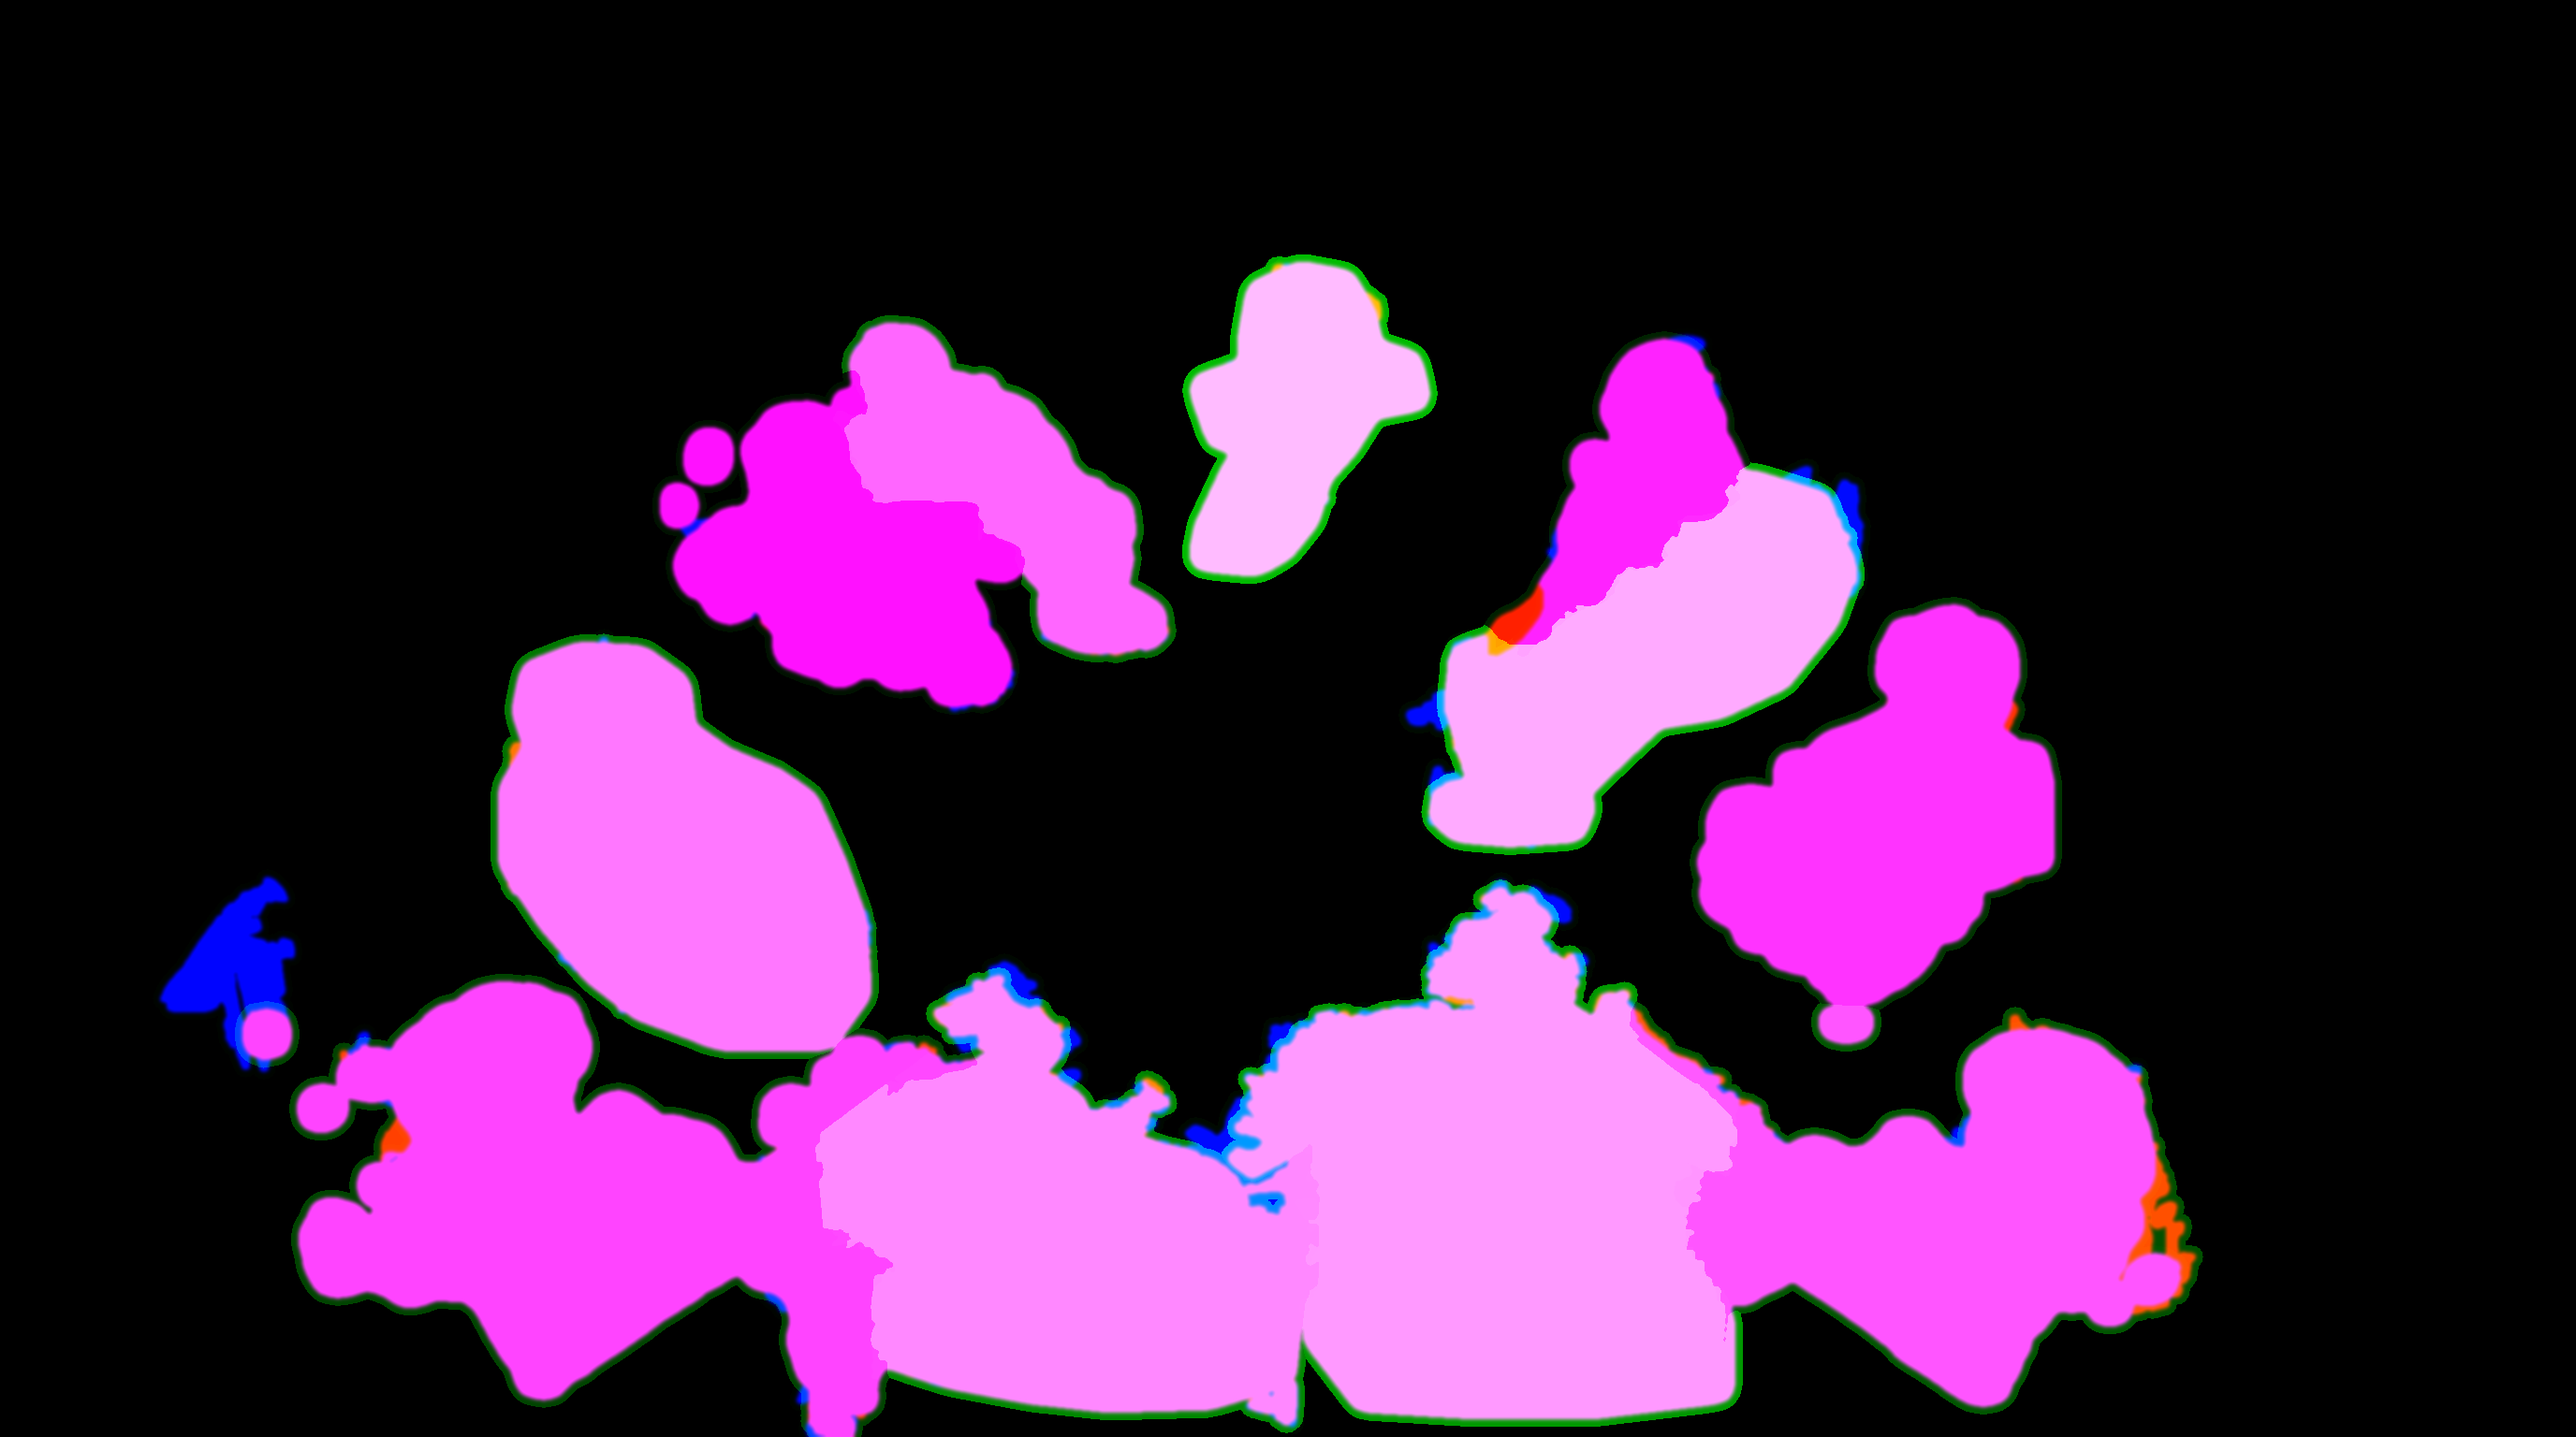
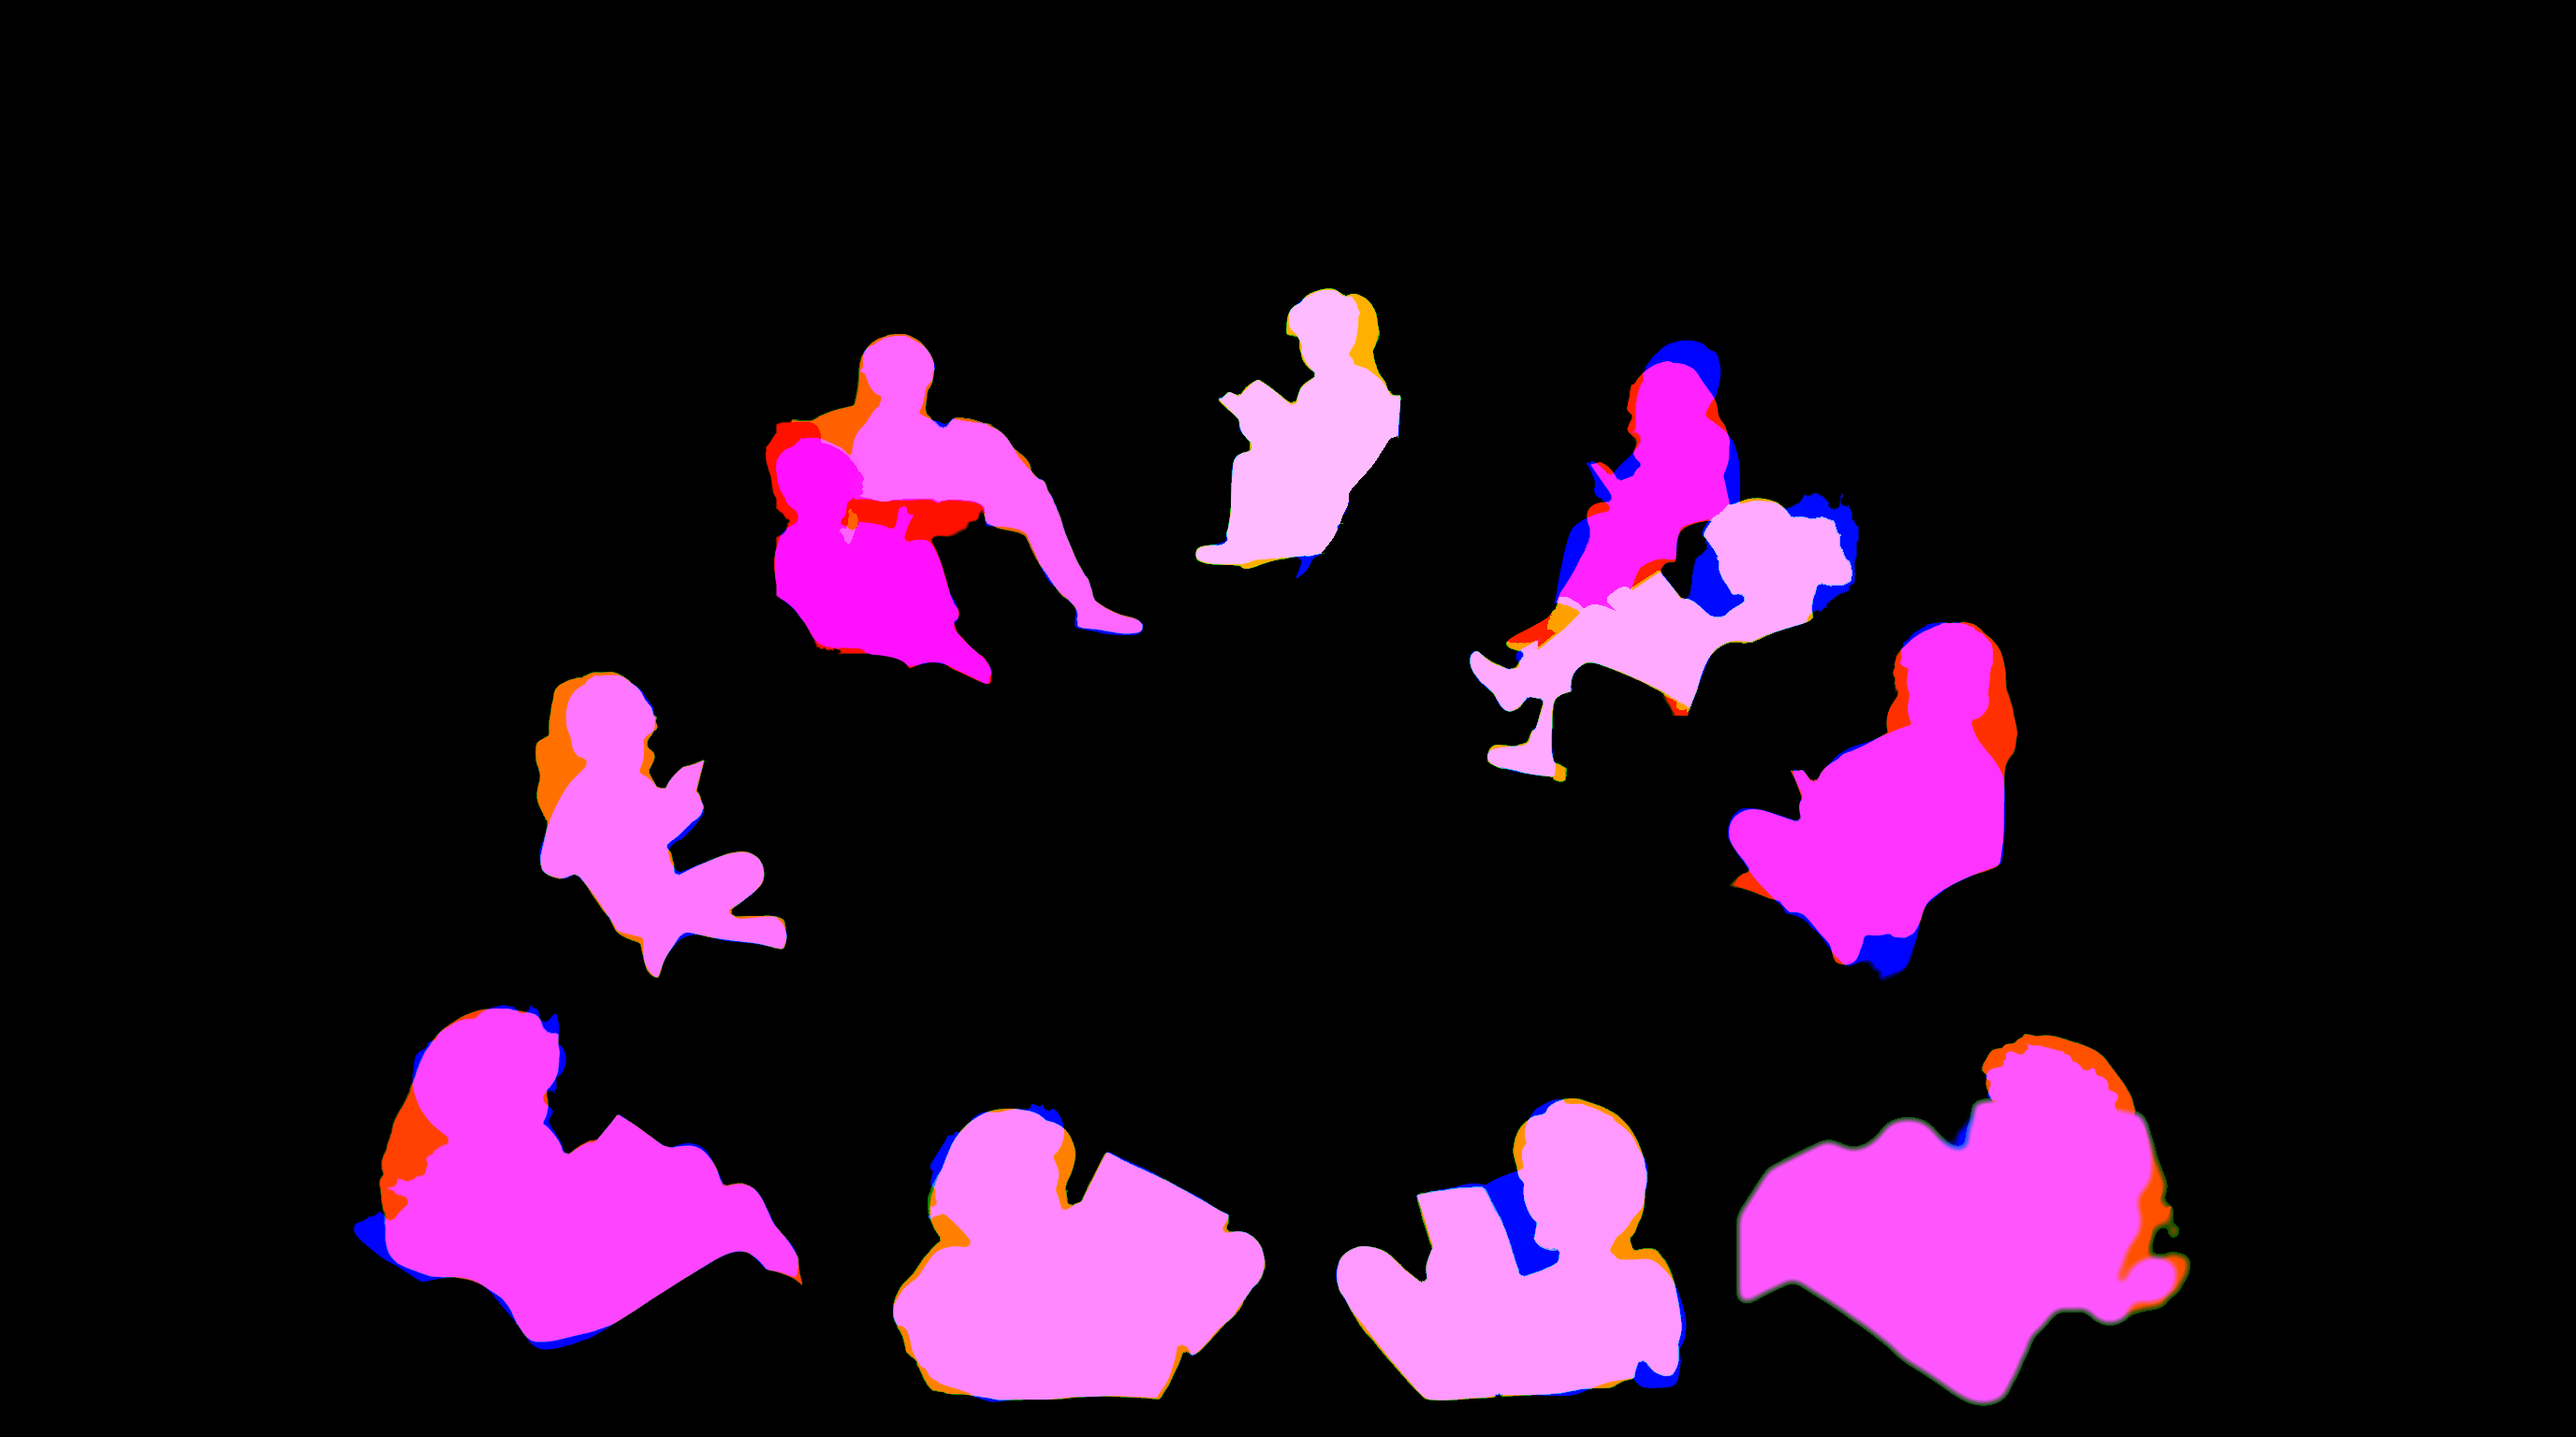
Reading room: every reader cut out as themselves, legs and all
The founder's screenshots of 2026-10-07: readers still had cut legs and a
ragged edge at an elbow, and the young man on the sofa, alone, had a bite out
of his side where the girl's head is in the render.

The masks held everything a cast render changed around a reader (the chair's
throw, the sheepskin, half a lamp arm), and who was who where two readers
touch came from the September render. Now each reader is the person only
(prototypes/reading-room/build_figures.py):
- the outline is a person segmentation (BiRefNet) of each render;
- who is who comes from SAM pointed at each reader and away from the
  neighbours; the line between two people follows the picture's edges and
  its pixels go to the one in front;
- parts the model missed (dark jeans on a dark armchair) come back where the
  old figure, the empty room and the other cast agree a person is there;
- reader 5's armchair, drawn differently in the empty frame, comes with her.
All 22 figures checked alone in every cast and time of day. CAST_BOX follows.

Changed region(s): [[0.0625, 0.1562, 0.875, 1.0], [0.75, 0.9688, 0.7812, 1.0]]

diff --git a/frontend/src/widgets/ReadingRoom/casts.js b/frontend/src/widgets/ReadingRoom/casts.js
@@ -2,10 +2,10 @@
    portrait):
    CAST_EYES: where each new face's eyes are, so the lids close over them, by time of day and cast (f, m), reader by
    reader, as engine.js keeps a rig's eyes;
-   CAST_BOX: each reader's box, grown to hold their figure in every render (build_casts.py), so none is cut;
+   CAST_BOX: each reader's box, grown to hold their figure in every render (build_figures.py), so none is cut;
    CAST_PAGES: page turns for the readers the old rig had none for (casts/pages.json), as engine.js PAGES, with
    mode 2 (an open book facing us) or 3 (a book seen from its cover: only the sheet's edge flicks past it).
    Written by prototypes/reading-room/casts_js.py; do not edit by hand. */
 export const CAST_EYES={"a":{"day":{"f":{"6":[[0.35102,0.2666,0.00277,-0.000495,0.001758,0.002279,0.000977,0]],"1":[[0.32068,0.34896,0.00303,-8.5e-05,0.002214,0.002344,0.0014,0],[0.3284,0.34873,0.00221,-0.000293,0.002376,0.002441,0.00112,0]],"2":[[0.64528,0.29219,0.00263,-0.000247,0.001432,0.002604,0.0011,0],[0.63854,0.2918,0.00155,8.5e-05,0.001562,0.001562,0.000879,0]],"3":[[0.75309,0.48724,0.0033,-0.000247,0.002148,0.00319,0.001198,0],[0.7432,0.48268,0.00233,0.000417,0.002344,0.002344,0.0011,0]],"7":[[0.23519,0.51989,0.00341,-0.000371,0.002507,0.003158,0.000801,0],[0.24613,0.51549,0.00168,-0.000254,0.001693,0.002214,0.000703,0]]},"m":{"6":[[0.35238,0.27266,0.00266,-0.000247,0.001432,0.001562,0.000977,0]],"1":[[0.32097,0.34876,0.00327,-0.000104,0.00319,0.004492,0.0014,0],[0.32812,0.34753,0.0021,-0.000254,0.002474,0.002995,0.00112,0]],"2":[[0.65162,0.27734,0.00208,-8.5e-05,0.001562,0.001758,0.0011,0],[0.64462,0.27572,0.00166,-0.000169,0.001497,0.001628,0.000879,0]],"3":[[0.75307,0.4903,0.00306,0.0,0.002018,0.00293,0.001198,0],[0.74302,0.48542,0.00202,-8.5e-05,0.002344,0.002604,0.0011,0]],"7":[[0.23868,0.52448,0.00359,-0.000247,0.002279,0.002409,0.000801,0],[0.24797,0.52031,0.00148,-8.5e-05,0.002018,0.002148,0.000703,0]]}},"night":{"f":{"6":[[0.35129,0.2668,0.00377,-0.000247,0.001562,0.002344,0.000977,0]],"1":[[0.32028,0.34971,0.00263,-0.000124,0.00166,0.003158,0.0014,0],[0.32812,0.3498,0.00233,-0.000332,0.002539,0.002669,0.00112,0]],"2":[[0.64515,0.29329,0.00235,-0.000169,0.001562,0.001823,0.0011,0],[0.63863,0.29219,0.00166,8.5e-05,0.001562,0.001693,0.000879,0]],"3":[[0.75365,0.48789,0.00306,-0.000247,0.002865,0.003255,0.001198,0],[0.74331,0.48138,0.00202,8.5e-05,0.002344,0.002539,0.0011,0]],"7":[[0.23556,0.52005,0.00355,-0.000247,0.002669,0.00319,0.000801,0],[0.24586,0.51589,0.00202,-0.000254,0.002018,0.002279,0.000703,0]]},"m":{"6":[[0.35247,0.27148,0.00388,-0.00041,0.002865,0.003255,0.000977,0]],"1":[[0.32013,0.34782,0.00237,-0.000625,0.002246,0.002181,0.0014,0],[0.32776,0.34629,0.0021,-0.000332,0.002279,0.002669,0.00112,0]],"2":[[0.65189,0.27728,0.0029,-0.000163,0.001823,0.002214,0.0011,0],[0.64462,0.27572,0.0021,-0.000169,0.001758,0.002148,0.000879,0]],"3":[[0.75363,0.49004,0.00335,0.000163,0.001953,0.002344,0.001198,0],[0.74284,0.48509,0.00197,0.0,0.002344,0.002865,0.0011,0]],"7":[[0.2389,0.52422,0.0035,-0.000247,0.002865,0.002669,0.000801,0],[0.24747,0.52083,0.0019,-8.5e-05,0.002604,0.00293,0.000703,0]]}}},"m":{"day":{"f":{"6":[[0.25749,0.37725,0.00377,-0.000142,0.000872,0.00109,0.000472,0]],"1":[[0.21029,0.42068,0.00496,-9.1e-05,0.000763,0.000981,0.000581,0]],"2":[[0.736,0.39117,0.00456,-9.1e-05,0.00069,0.000908,0.000472,0],[0.72217,0.39122,0.00437,0.000302,0.000309,0.001326,0.000378,0]],"3":[[0.80892,0.52206,0.00496,-9.1e-05,0.000836,0.001054,0.000556,0],[0.79658,0.51955,0.00277,0.000716,0.000509,0.000872,0.000512,0]],"7":[[0.08561,0.51137,0.00615,-9.1e-05,0.001199,0.001126,0.000392,0],[0.10384,0.50858,0.00377,-0.000233,0.000872,0.00109,0.000345,0]]},"m":{"6":[[0.25928,0.38121,0.00357,-0.000189,0.000981,0.001054,0.000472,0]],"1":[[0.21208,0.42271,0.00635,-0.000182,0.000836,0.000981,0.000581,0]],"2":[[0.74447,0.38521,0.00536,-9.1e-05,0.000981,0.001126,0.000472,0],[0.736,0.38532,0.00258,0.000912,0.000581,0.000945,0.000378,0]],"3":[[0.80859,0.52271,0.00576,0.0,0.000908,0.001126,0.000556,0],[0.796,0.52093,0.00286,0.000429,0.00069,0.000799,0.000512,0]],"7":[[0.0944,0.51392,0.00734,-9.1e-05,0.001199,0.001344,0.000392,0],[0.10758,0.51308,0.00277,-0.00024,0.000799,0.001163,0.000345,0]]}},"night":{"f":{"6":[[0.25667,0.37725,0.00437,-0.000138,0.000945,0.00109,0.000472,0]],"1":[[0.21338,0.42148,0.00476,-0.000185,0.00069,0.000981,0.000581,0]],"2":[[0.73861,0.39172,0.00576,-4.7e-05,0.000799,0.000872,0.000472,0],[0.72282,0.3919,0.00437,0.000465,0.000254,0.000908,0.000378,0]],"3":[[0.80957,0.52271,0.00655,0.000182,0.001126,0.001344,0.000556,0],[0.79655,0.51966,0.00298,0.000665,0.00069,0.000763,0.000512,0]],"7":[[0.09049,0.51283,0.00576,-0.000367,0.000763,0.001126,0.000392,0],[0.10612,0.50981,0.00337,-0.000425,0.000872,0.001017,0.000345,0]]},"m":{"6":[[0.25879,0.38105,0.00536,-0.00016,0.00089,0.001145,0.000472,0]],"1":[[0.21387,0.4206,0.00536,-0.000185,0.000836,0.000981,0.000581,0]],"2":[[0.74626,0.38423,0.00516,-0.000138,0.000945,0.00109,0.000472,0],[0.73568,0.38488,0.00258,0.000912,0.00109,0.000581,0.000378,0]],"3":[[0.81185,0.52373,0.00615,9.1e-05,0.001126,0.001126,0.000556,0],[0.79925,0.5224,0.00286,0.000309,0.0006,0.000854,0.000512,0]],"7":[[0.09326,0.51374,0.00794,-4.7e-05,0.001308,0.001453,0.000392,0],[0.10645,0.51305,0.00496,-0.000185,0.000908,0.001344,0.000345,0]]}}}};
-export const CAST_BOX={"a":{"1":[0.25,0.2493,0.403,0.4993],"2":[0.572,0.2292,0.693,0.483],"3":[0.653,0.408,0.803,0.7051],"4":[0.06,0.6061,0.383,1.0],"5":[0.629,0.694,0.8547,0.9831],"6":[0.31,0.2207,0.456,0.4603],"7":[0.1911,0.4388,0.3416,0.7357],"8":[0.3129,0.6647,0.516,0.9974],"9":[0.4578,0.6081,0.6784,0.9915],"10":[0.5436,0.3132,0.7257,0.5944],"11":[0.4597,0.1725,0.5574,0.4049]},"m":{"1":[0.0807,0.3743,0.3522,0.5145],"2":[0.6074,0.359,0.8073,0.4811],"3":[0.6445,0.4738,0.8809,0.6588],"4":[0.0,0.7028,0.3105,0.8234],"5":[0.6771,0.6025,1.0,0.8328],"6":[0.2044,0.3423,0.4173,0.4789],"7":[0.0,0.4528,0.2617,0.633],"8":[0.2415,0.6817,0.5124,0.863],"9":[0.515,0.6686,0.7689,0.8637],"10":[0.5775,0.4012,0.8783,0.5465],"11":[0.4147,0.3198,0.6126,0.4524]}};
+export const CAST_BOX={"a":{"1":[0.25,0.268,0.403,0.493],"2":[0.572,0.234,0.693,0.498],"3":[0.653,0.408,0.803,0.701],"4":[0.088,0.668,0.362,0.986],"5":[0.645,0.698,0.852,0.98],"6":[0.3052,0.225,0.455,0.4551],"7":[0.195,0.45,0.34,0.725],"8":[0.33,0.745,0.505,0.98],"9":[0.505,0.75,0.672,0.982],"10":[0.562,0.332,0.7217,0.558],"11":[0.462,0.188,0.555,0.4036]},"m":{"1":[0.0859,0.3783,0.347,0.5073],"2":[0.6074,0.363,0.8229,0.4895],"3":[0.6497,0.4807,0.8757,0.6344],"4":[0.0,0.7078,0.2995,0.8292],"5":[0.7188,0.7242,0.9896,0.8361],"6":[0.1882,0.3448,0.4128,0.4873],"7":[0.002,0.4633,0.2565,0.6305],"8":[0.2656,0.7478,0.5156,0.8692],"9":[0.5202,0.7525,0.7448,0.8608],"10":[0.582,0.4026,0.8672,0.5549],"11":[0.4193,0.3223,0.6074,0.4495]}};
 export const CAST_PAGES={"a":{"1":{"s0":[0.34775,0.3724],"d":[0.00145,0.00911],"r":[-0.01853,-0.00586],"l":[0.00145,-0.01758],"up":[-0.00283,-0.00677],"away":0,"mode":3,"tiles":[2,3],"tint":[1.25,1.25,1.25],"under":-1},"2":{"s0":[0.62246,0.33464],"d":[0.00073,0.00911],"r":[0.01781,-0.00651],"l":[-0.00981,-0.01107],"up":[0.00142,-0.0127],"away":0,"mode":3,"tiles":[2,3],"tint":[0.9,0.9,0.9],"under":-1},"6":{"s0":[0.38481,0.29362],"d":[0.00073,0.00911],"r":[-0.01708,-0.00521],"l":[0.00581,-0.00977],"up":[-0.00189,-0.011],"away":0,"mode":3,"tiles":[2,3],"tint":[1.25,1.25,1.25],"under":-1},"7":{"s0":[0.25581,0.54883],"d":[0.00145,0.01302],"r":[-0.01962,0.0],"l":[0.01054,-0.01758],"up":[-0.00331,-0.01439],"away":0,"mode":3,"tiles":[2,3],"tint":[1.011,1.011,1.011],"under":-1},"8":{"s0":[0.45422,0.82161],"d":[-0.01453,0.06706],"r":[0.01308,0.01497],"l":[-0.02798,0.0],"up":[-0.00109,-0.00456],"away":0,"mode":2,"tiles":[2,3],"tint":[0.708,0.708,0.708],"under":-1},"11":{"s0":[0.47602,0.27441],"d":[0.0109,0.01693],"r":[0.01272,-0.01009],"l":[-0.00291,0.00228],"up":[-0.00182,-0.00521],"away":0,"mode":2,"tiles":[2,3],"tint":[1.25,1.25,1.25],"under":-1}},"m":{"4":{"s0":[0.16178,0.75472],"d":[-0.01855,0.02507],"r":[0.01432,0.00327],"l":[-0.02702,-0.00927],"up":[-0.00195,-0.00182],"away":0,"mode":2,"tiles":[4,5],"tint":[0.759,0.759,0.759],"under":-1},"5":{"s0":[0.82161,0.76036],"d":[0.02604,0.02634],"r":[0.0293,-0.00963],"l":[-0.01302,0.00309],"up":[-0.0013,-0.00182],"away":0,"mode":2,"tiles":[4,5],"tint":[0.7,0.7,0.7],"under":-1},"8":{"s0":[0.42969,0.77108],"d":[-0.00781,0.03379],"r":[0.04395,0.01163],"l":[-0.02441,-0.00799],"up":[-0.00195,-0.00218],"away":0,"mode":2,"tiles":[4,5],"tint":[0.7,0.7,0.7],"under":-1},"9":{"s0":[0.61784,0.77653],"d":[0.01693,0.0327],"r":[0.02865,-0.004],"l":[-0.0319,0.00363],"up":[0.00195,-0.00182],"away":0,"mode":2,"tiles":[4,5],"tint":[0.756,0.756,0.756],"under":-1},"11":{"s0":[0.46908,0.38081],"d":[0.02116,0.01199],"r":[0.01172,-0.00581],"l":[-0.00716,-0.00073],"up":[-0.00391,-0.00291],"away":0,"mode":2,"tiles":[4,5],"tint":[1.189,1.189,1.189],"under":-1},"1":{"s0":[0.25423,0.43401],"d":[0.00251,0.00477],"r":[-0.02989,-0.00304],"l":[0.00201,-0.0092],"up":[-0.00468,-0.00354],"away":0,"mode":3,"tiles":[4,5],"tint":[1.25,1.25,1.25],"under":-1},"2":{"s0":[0.69862,0.41413],"d":[0.00115,0.00474],"r":[0.02856,-0.00329],"l":[-0.01571,-0.0058],"up":[0.00229,-0.00659],"away":0,"mode":3,"tiles":[4,5],"tint":[0.9,0.9,0.9],"under":-1},"6":{"s0":[0.31234,0.39192],"d":[0.00125,0.00479],"r":[-0.02767,-0.00263],"l":[0.00933,-0.00518],"up":[-0.00314,-0.00578],"away":0,"mode":3,"tiles":[4,5],"tint":[1.211,1.211,1.211],"under":-1},"7":{"s0":[0.11732,0.52649],"d":[0.00269,0.0066],"r":[-0.03,-2e-05],"l":[0.01548,-0.0089],"up":[-0.00557,-0.0073],"away":0,"mode":3,"tiles":[4,5],"tint":[0.917,0.917,0.917],"under":-1}}};
